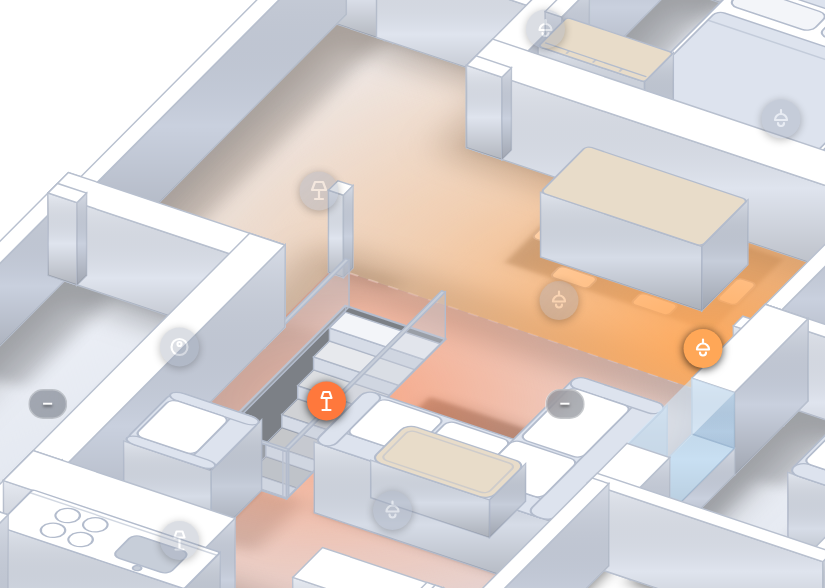
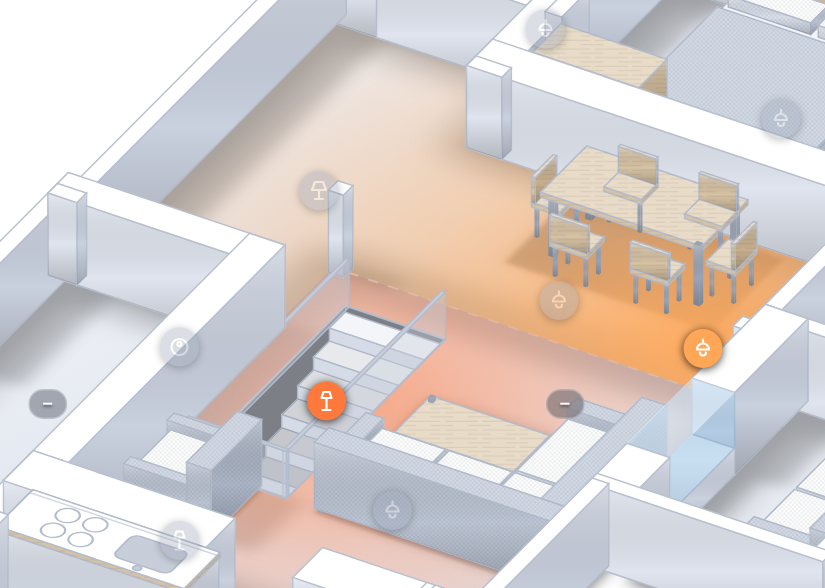
v1.7.0: detailed 3D furniture with textures, furniture kept out of walls and each other
Claude-Session: https://claude.ai/code/session_01Y1uamTQvJ6NkutXHn69Ndq

diff --git a/glow-floorplan-card.js b/glow-floorplan-card.js
@@ -261,9 +261,151 @@ const FLOORS = {
 };
 
 const FURN_PALETTE = {
-  day: { fur: "#ffffff", line: "#b3bccd", accent: "#dde3ee", soft: "#f3f5f9", wood: "#e8dcc9", metal: "#c7ced9", side: "#d6dce7", side2: "#c6cdda", screen: "#2a2f3a", screenEdge: "#565e70" },
-  night: { fur: "#586176", line: "#7d879e", accent: "#4a5368", soft: "#525b70", wood: "#635a4c", metal: "#6d778d", side: "#434b5e", side2: "#3a4253", screen: "#1a1d25", screenEdge: "#3d4456" },
+  day: { fur: "#ffffff", line: "#b3bccd", accent: "#dde3ee", soft: "#f3f5f9", wood: "#e8dcc9", metal: "#c7ced9", side: "#d6dce7", side2: "#c6cdda", screen: "#2a2f3a", screenEdge: "#565e70", woodSide: "#d6c2a4", woodSide2: "#c7b08f", fabric: "#d3dae6", fabricSide: "#bfc7d6", fabricSide2: "#aeb7c8", leg: "#9aa3b3" },
+  night: { fur: "#586176", line: "#7d879e", accent: "#4a5368", soft: "#525b70", wood: "#635a4c", metal: "#6d778d", side: "#434b5e", side2: "#3a4253", screen: "#1a1d25", screenEdge: "#3d4456", woodSide: "#544b3e", woodSide2: "#4a4236", fabric: "#4e566a", fabricSide: "#424a5c", fabricSide2: "#3a4152", leg: "#2f3544" },
 };
+
+/** Colours for a 3D furniture part by material. */
+function partColors(kind, q) {
+  switch (kind) {
+    case "wood": return { top: q.wood, side: q.woodSide, side2: q.woodSide2, edge: q.line, tex: "wood" };
+    case "fabric": return { top: q.fabric, side: q.fabricSide, side2: q.fabricSide2, edge: q.line, tex: "fabric" };
+    case "cushion": return { top: q.fur, side: q.accent, side2: q.fabricSide, edge: q.line, tex: "fabric" };
+    case "soft": return { top: q.soft, side: q.accent, side2: q.fabricSide, edge: q.line };
+    case "leg": return { top: q.leg, side: q.leg, side2: q.leg, edge: "none" };
+    case "screen": return { top: q.screen, side: q.screen, side2: q.screen, edge: q.screenEdge };
+    case "plinth": return { top: q.side2, side: q.side2, side2: q.side2, edge: "none" };
+    default: return { top: q.fur, side: q.side, side2: q.side2, edge: q.line };
+  }
+}
+
+/**
+ * 3D build of a piece as boxes in local coordinates:
+ * [x0, y0, x1, y1, z0, z1, material]. The back is at y = 0, the front at y = h.
+ * Returns null for pieces that stay a simple box.
+ */
+function furniture3dParts(type, w, h, z, q) {
+  const P = [];
+  const add = (x0, y0, x1, y1, z0, z1, m) => x1 - x0 > 0.5 && y1 - y0 > 0.5 && z1 - z0 > 0.2 && P.push([x0, y0, x1, y1, z0, z1, m]);
+  const legs = (x0, y0, x1, y1, z1, t = 4, inset = 3) => {
+    add(x0 + inset, y0 + inset, x0 + inset + t, y0 + inset + t, 0, z1, "leg");
+    add(x1 - inset - t, y0 + inset, x1 - inset, y0 + inset + t, 0, z1, "leg");
+    add(x0 + inset, y1 - inset - t, x0 + inset + t, y1 - inset, 0, z1, "leg");
+    add(x1 - inset - t, y1 - inset - t, x1 - inset, y1 - inset, 0, z1, "leg");
+  };
+  const chair = (x0, y0, x1, y1, backAt) => {
+    // A chair: four legs, a seat and a backrest on the side away from the table.
+    legs(x0, y0, x1, y1, 26, 2.5, 1.5);
+    add(x0, y0, x1, y1, 26, 30, "wood");
+    if (backAt === "top") add(x0, y0, x1, y0 + 3, 30, 52, "wood");
+    if (backAt === "bottom") add(x0, y1 - 3, x1, y1, 30, 52, "wood");
+    if (backAt === "left") add(x0, y0, x0 + 3, y1, 30, 52, "wood");
+    if (backAt === "right") add(x1 - 3, y0, x1, y1, 30, 52, "wood");
+  };
+  switch (type) {
+    case "sofa_2":
+    case "sofa_3":
+    case "armchair": {
+      const seats = type === "sofa_3" ? 3 : type === "sofa_2" ? 2 : 1;
+      const a = Math.min(16, w * 0.14);
+      const b = h * 0.28;
+      add(0, 0, w, b, 4, z, "fabric");
+      add(0, b, a, h, 4, z * 0.68, "fabric");
+      add(w - a, b, w, h, 4, z * 0.68, "fabric");
+      add(a, b, w - a, h, 4, z * 0.4, "fabric");
+      legs(0, 0, w, h, 4, 4, 2);
+      const sw = (w - 2 * a - 3 * (seats - 1)) / seats;
+      for (let i = 0; i < seats; i++) add(a + i * (sw + 3), b + 1, a + i * (sw + 3) + sw, h - 3, z * 0.4, z * 0.56, "cushion");
+      return P;
+    }
+    case "sofa_corner": {
+      const D = Math.min(75, w * 0.45, h * 0.45);
+      const a = 14;
+      const b = D * 0.28;
+      add(0, 0, w, b, 4, z, "fabric");
+      add(0, b, b, h, 4, z, "fabric");
+      add(w - a, b, w, D, 4, z * 0.68, "fabric");
+      add(b, h - a, D, h, 4, z * 0.68, "fabric");
+      add(b, b, w - a, D, 4, z * 0.4, "fabric");
+      add(b, D, D, h - a, 4, z * 0.4, "fabric");
+      legs(0, 0, w, h, 4, 4, 2);
+      const top = (w - a - D - 3) / 2;
+      for (let i = 0; i < 2; i++) add(D + i * (top + 3), b + 1, D + i * (top + 3) + top, D - 2, z * 0.4, z * 0.56, "cushion");
+      add(b + 1, b + 1, D - 2, D - 2, z * 0.4, z * 0.56, "cushion");
+      add(b + 1, D + 1, D - 2, h - a - 2, z * 0.4, z * 0.56, "cushion");
+      return P;
+    }
+    case "single_bed":
+    case "double_bed": {
+      const n = type === "double_bed" ? 2 : 1;
+      add(0, 0, w, h * 0.05, 0, z * 2.1, "wood");
+      add(0, h * 0.05, w, h, 4, z * 0.45, "wood");
+      legs(0, h * 0.05, w, h, 4, 5, 2);
+      add(3, h * 0.05, w - 3, h - 3, z * 0.45, z * 0.95, "soft");
+      const gap = 6;
+      const pw = (w - 12 - gap * (n - 1)) / n;
+      for (let i = 0; i < n; i++) add(6 + i * (pw + gap), h * 0.09, 6 + i * (pw + gap) + pw, h * 0.24, z * 0.95, z * 1.2, "cushion");
+      add(3, h * 0.3, w - 3, h - 3, z * 0.95, z * 1.08, "fabric");
+      return P;
+    }
+    case "dining_table": {
+      const c = 18;
+      add(c, c, w - c, h - c, z - 4, z, "wood");
+      legs(c, c, w - c, h - c, z - 4, 5, 4);
+      const nC = Math.max(1, Math.round((w - 2 * c) / 55));
+      const step = (w - 2 * c) / nC;
+      for (let i = 0; i < nC; i++) {
+        const x = c + step * i + (step - 30) / 2;
+        chair(x, 1, x + 30, c + 6, "top");
+        chair(x, h - c - 6, x + 30, h - 1, "bottom");
+      }
+      if (h - 2 * c >= 30) {
+        chair(1, h / 2 - 15, c + 6, h / 2 + 15, "left");
+        chair(w - c - 6, h / 2 - 15, w - 1, h / 2 + 15, "right");
+      }
+      return P;
+    }
+    case "desk": {
+      const dh = h - 42;
+      add(0, 0, w, dh, z - 3, z, "wood");
+      add(0, 0, 3, dh, 0, z - 3, "wood");
+      add(w - 3, 0, w, dh, 0, z - 3, "wood");
+      add(w * 0.3, dh * 0.12, w * 0.7, dh * 0.18, z + 4, z + 36, "screen");
+      add(w * 0.48, dh * 0.15, w * 0.52, dh * 0.3, z, z + 6, "leg");
+      const cx = w / 2;
+      const cy = dh + 22;
+      add(cx - 2.5, cy - 2.5, cx + 2.5, cy + 2.5, 2, 40, "leg");
+      add(cx - 14, cy - 14, cx + 14, cy + 14, 0, 2, "leg");
+      add(cx - 15, cy - 13, cx + 15, cy + 12, 40, 46, "cushion");
+      add(cx - 15, cy + 12, cx + 15, cy + 18, 44, 82, "fabric");
+      return P;
+    }
+    case "coffee_table":
+      add(0, 0, w, h, z - 4, z, "wood");
+      legs(0, 0, w, h, z - 4, 4, 4);
+      add(5, 5, w - 5, h - 5, 10, 12, "wood");
+      return P;
+    case "dresser": {
+      add(0, 0, w, h - 1, 4, z, "wood");
+      legs(0, 0, w, h - 1, 4, 4, 2);
+      const k = (z - 8) / 3;
+      for (let i = 0; i < 3; i++) add(2, h - 1, w - 2, h, 6 + i * k + 1, 6 + (i + 1) * k - 1, "wood");
+      return P;
+    }
+    case "cabinet":
+      add(0, 0, w, h - 1, 0, z, "box");
+      add(2, h - 1, w / 2 - 1, h, 4, z - 4, "soft");
+      add(w / 2 + 1, h - 1, w - 2, h, 4, z - 4, "soft");
+      return P;
+    case "kitchen_counter":
+      add(0, 0, w, h - 6, 0, 10, "plinth");
+      add(0, 0, w, h - 2, 10, z - 4, "box");
+      add(0, 0, w, h, z - 4, z, "wood");
+      return P;
+    default:
+      return null;
+  }
+}
 
 /** SVG patterns for the floor materials, in plan units (1 unit ≈ 1 cm). */
 function floorPatterns(u, mode) {
@@ -578,6 +720,75 @@ class Renderer {
     this.edit = !!opts.edit;
     this.is3d = !!opts.is3d;
     this.uid = opts.uid || Math.random().toString(36).slice(2, 8);
+    // On the dashboard, nudge furniture out of walls and out of each other.
+    // The editor shows the positions exactly as saved.
+    if (!this.edit && config.avoid_overlap !== false && config.furniture && config.furniture.length)
+      this.c = { ...config, furniture: this.resolveFurniture() };
+  }
+
+  /**
+   * Moves each piece the shortest way out of walls and the pieces before it.
+   * Shapes are the real parts (an L-sofa leaves its corner free), so a coffee
+   * table in front of the sofa stays put. A piece that would have to move
+   * further than 80 units is left where it is.
+   */
+  resolveFurniture() {
+    const q = FURN_PALETTE.day;
+    const t = (this.c.wall_width || 24) * 0.55;
+    const obstacles = [];
+    for (const sg of this.wallSegments()) {
+      if (sg.kind === "gap") continue;
+      const [ax, ay] = sg.a;
+      const [bx, by] = sg.b;
+      const th = (sg.thick || t) / 2;
+      if (Math.abs(ax - bx) < 1) obstacles.push([ax - th, Math.min(ay, by), ax + th, Math.max(ay, by)]);
+      else if (Math.abs(ay - by) < 1) obstacles.push([Math.min(ax, bx), ay - th, Math.max(ax, bx), ay + th]);
+    }
+    const rectsOf = (f, dx, dy) => {
+      const [w, h, spec] = furnitureSize(f);
+      const parts = furniture3dParts(f.type, w, h, spec.z, q);
+      const boxes = parts ? parts.filter((p) => p[5] > 3).map((p) => [p[0], p[1], p[2], p[3]]) : [[0, 0, w, h]];
+      return boxes.map(([x0, y0, x1, y1]) => {
+        const pts = [[x0, y0], [x1, y0], [x1, y1], [x0, y1]].map(([lx, ly]) => furnitureLocalToWorld(f, w, h, lx, ly));
+        const xs = pts.map((p) => p[0] + dx);
+        const ys = pts.map((p) => p[1] + dy);
+        return [Math.min(...xs), Math.min(...ys), Math.max(...xs), Math.max(...ys)];
+      });
+    };
+    const out = [];
+    for (const f0 of this.c.furniture) {
+      const f = { ...f0 };
+      const [w, h] = furnitureSize(f);
+      let dx = 0;
+      let dy = 0;
+      for (let it = 0; it < 16; it++) {
+        const mine = rectsOf(f, dx, dy);
+        let hit = null;
+        for (const r of mine) {
+          for (const o of obstacles) {
+            const ox = Math.min(r[2], o[2]) - Math.max(r[0], o[0]);
+            const oy = Math.min(r[3], o[3]) - Math.max(r[1], o[1]);
+            if (ox > 0.5 && oy > 0.5) {
+              hit = { o, ox, oy };
+              break;
+            }
+          }
+          if (hit) break;
+        }
+        if (!hit) break;
+        const [ocx, ocy] = [(hit.o[0] + hit.o[2]) / 2, (hit.o[1] + hit.o[3]) / 2];
+        const [pcx, pcy] = [f.x + w / 2 + dx, f.y + h / 2 + dy];
+        if (hit.ox < hit.oy) dx += (pcx >= ocx ? 1 : -1) * (hit.ox + 0.5);
+        else dy += (pcy >= ocy ? 1 : -1) * (hit.oy + 0.5);
+      }
+      if (Math.abs(dx) + Math.abs(dy) <= 80) {
+        f.x += dx;
+        f.y += dy;
+      }
+      out.push(f);
+      if (f.type !== "stairs_down") obstacles.push(...rectsOf(f, 0, 0));
+    }
+    return out;
   }
 
   mode() {
@@ -648,6 +859,14 @@ class Renderer {
         <stop offset="1" stop-color="#000" stop-opacity="${this.mode() === "night" ? 0.32 : 0.2}"/>
       </linearGradient>`);
     out.defs.push(floorPatterns(u, this.mode()));
+    {
+      // Small screen-space textures for 3D furniture: woven fabric and wood grain.
+      const n = this.mode() === "night";
+      const ink = n ? "rgba(255,255,255,0.07)" : "rgba(40,50,70,0.09)";
+      const grain = n ? "rgba(255,255,255,0.06)" : "rgba(90,60,30,0.12)";
+      out.defs.push(`<pattern id="tx-${u}-fabric" width="3" height="3" patternUnits="userSpaceOnUse"><rect width="1.5" height="1.5" fill="${ink}"/><rect x="1.5" y="1.5" width="1.5" height="1.5" fill="${ink}"/></pattern>
+        <pattern id="tx-${u}-wood" width="26" height="6" patternUnits="userSpaceOnUse"><path d="M0 1.5 H11 M14 1.5 H26 M4 4.5 H20" stroke="${grain}" stroke-width="0.8"/></pattern>`);
+    }
     out.defs.push(`<linearGradient id="tvl-${u}" x1="0" y1="0" x2="0" y2="1">
         <stop offset="0" stop-color="#fff" stop-opacity="${this.mode() === "night" ? 0.6 : 0.75}"/>
         <stop offset="0.45" stop-color="#eef4ff" stop-opacity="${this.mode() === "night" ? 0.25 : 0.32}"/>
@@ -684,7 +903,7 @@ class Renderer {
         out.tvlight.push(`<g transform="${t}"><polygon points="${w * 0.08},${h} ${w * 0.92},${h} ${w * 1.35},${h + L} ${-w * 0.35},${h + L}" fill="url(#tvl-${u})" filter="url(#cs-${u})"/></g>`);
       }
       if (this.is3d) {
-        if (FURNITURE[f.type] && FURNITURE[f.type].chairs) out.furnitureFloor.push(`<g transform="${t}">${furnitureDrawing(f.type, w, h, q, "floor")}</g>`);
+        // Chairs are built as real 3D parts (furniture3dParts), nothing lies flat.
       } else {
         out.furniture.push(`<g transform="${t}">${furnitureDrawing(f.type, w, h, q)}</g>`);
         const spec = FURNITURE[f.type] || {};
@@ -1003,12 +1222,15 @@ class Renderer {
       const q = [v.proj(x1, y1, z0), v.proj(x2, y2, z0), v.proj(x2, y2, z1), v.proj(x1, y1, z1)];
       const qp = q.map((c) => c.map((n2) => n2.toFixed(1)).join(",")).join(" ");
       faces.push(`<polygon points="${qp}" fill="${lit ? colors.side : colors.side2}" ${opts.sideExtra || ""} stroke="${colors.edge || "none"}" stroke-width="1"/>`);
+      if (colors.tex) faces.push(`<polygon points="${qp}" fill="url(#tx-${this.uid}-${colors.tex})" pointer-events="none"/>`);
       // Height shading: a touch of light at the top edge, darker where the side meets the floor.
       if (this.c.shading !== false && !opts.flat && z1 - z0 > 8) faces.push(`<polygon points="${qp}" fill="url(#sd-${this.uid})" ${opts.sideExtra || ""}/>`);
     }
     if (!opts.noTop) {
       const top = corners.map(([x, y]) => v.proj(x, y, z1));
-      faces.push(`<polygon points="${top.map((c) => c.map((n2) => n2.toFixed(1)).join(",")).join(" ")}" fill="${colors.top}" ${opts.topExtra || ""} stroke="${colors.edge || "none"}" stroke-width="1"/>`);
+      const tp = top.map((c) => c.map((n2) => n2.toFixed(1)).join(",")).join(" ");
+      faces.push(`<polygon points="${tp}" fill="${colors.top}" ${opts.topExtra || ""} stroke="${colors.edge || "none"}" stroke-width="1"/>`);
+      if (colors.tex) faces.push(`<polygon points="${tp}" fill="url(#tx-${this.uid}-${colors.tex})" pointer-events="none"/>`);
     }
     return faces.join("");
   }
@@ -1103,6 +1325,63 @@ class Renderer {
       for (const m of after[pick]) indeg[m]--;
     }
     return out;
+  }
+
+  /**
+   * One piece of furniture built from several boxes (seat, back, legs...).
+   * Boxes whose footprints overlap are stacked, so the lower one is drawn first;
+   * the others are drawn back to front.
+   */
+  partsSvg(f, w, h, parts, q) {
+    const v = this.view3d();
+    const box = parts.map((p) => {
+      const corners = [[p[0], p[1]], [p[2], p[1]], [p[2], p[3]], [p[0], p[3]]].map(([lx, ly]) => furnitureLocalToWorld(f, w, h, lx, ly));
+      const xs = corners.map((c) => c[0]);
+      const ys = corners.map((c) => c[1]);
+      const mid = furnitureLocalToWorld(f, w, h, (p[0] + p[2]) / 2, (p[1] + p[3]) / 2);
+      return { p, corners, bb: [Math.min(...xs), Math.min(...ys), Math.max(...xs), Math.max(...ys)], d: v.depth(mid[0], mid[1]) };
+    });
+    box.forEach((bx) => {
+      const sx = bx.corners.map(([x, y]) => x * v.cos - y * v.sin);
+      bx.sx = [Math.min(...sx), Math.max(...sx)];
+      bx.c = [(bx.bb[0] + bx.bb[2]) / 2, (bx.bb[1] + bx.bb[3]) / 2];
+    });
+    const ovX = (a, b) => Math.min(a.bb[2], b.bb[2]) - Math.max(a.bb[0], b.bb[0]);
+    const ovY = (a, b) => Math.min(a.bb[3], b.bb[3]) - Math.max(a.bb[1], b.bb[1]);
+    // before(a, b): a must be drawn before b.
+    const before = (a, b) => {
+      if (ovX(a, b) > 0.5 && ovY(a, b) > 0.5) {
+        // Stacked (a seat under a table top, a mattress on a frame): the lower one first.
+        if (a.p[5] <= b.p[4] + 0.01) return true;
+        if (b.p[5] <= a.p[4] + 0.01) return false;
+        return a.d < b.d;
+      }
+      // Side by side on screen: they cannot cover each other.
+      if (a.sx[1] <= b.sx[0] + 0.5 || b.sx[1] <= a.sx[0] + 0.5) return false;
+      // Separated on the floor: the one nearer the viewer along the separating axis goes last.
+      if (ovX(a, b) <= 0.5 && Math.abs(v.sin) > 1e-3) return a.c[0] * v.sin < b.c[0] * v.sin;
+      if (ovY(a, b) <= 0.5 && Math.abs(v.cos) > 1e-3) return a.c[1] * v.cos < b.c[1] * v.cos;
+      return a.d < b.d;
+    };
+    const n = box.length;
+    const indeg = new Array(n).fill(0);
+    const nxt = box.map(() => []);
+    for (let i = 0; i < n; i++)
+      for (let j = 0; j < n; j++)
+        if (i !== j && before(box[i], box[j]) && !before(box[j], box[i])) {
+          nxt[i].push(j);
+          indeg[j]++;
+        }
+    const order = [];
+    const ready = box.map((_, i) => i).filter((i) => !indeg[i]);
+    while (ready.length) {
+      ready.sort((a, b) => box[a].d - box[b].d);
+      const i = ready.shift();
+      order.push(i);
+      for (const j of nxt[i]) if (!--indeg[j]) ready.push(j);
+    }
+    for (let i = 0; i < n; i++) if (!order.includes(i)) order.push(i);
+    return order.map((i) => this.prism(box[i].corners, box[i].p[4], box[i].p[5], partColors(box[i].p[6], q))).join("");
   }
 
   /**
@@ -1221,6 +1500,13 @@ class Renderer {
         }
         bands.sort((a, b) => a.d - b.d);
         items.push({ d: v.depth(cx, cy), foot: furnitureCorners(f, w, h), svg: bands.map((b) => b.svg).join("") });
+        return;
+      }
+      const parts = furniture3dParts(f.type, w, h, z, q);
+      if (parts) {
+        // The kitchen worktop keeps its sink and hob drawn on top.
+        const top = f.type === "kitchen_counter" ? `<g transform="${v.matrix(z)}"><g transform="${furnitureTransform(f, w, h)}">${furnitureDrawing(f.type, w, h, q, "top")}</g></g>` : "";
+        items.push({ d: v.depth(cx, cy), foot: furnitureCorners(f, w, h), svg: this.partsSvg(f, w, h, parts, q) + top });
         return;
       }
       let corners = furnitureCorners(f, w, h);

diff --git a/README.md b/README.md
@@ -161,6 +161,12 @@ For `stairs_down` the top step is at the back of the piece (y = 0 before rotatio
 
 Furniture is static: it is drawn like an architect's plan in 2D and as blocks in 3D.
 
+### Furniture in 3D
+
+In 3D the furniture is built from real parts instead of plain boxes: sofas and armchairs get a backrest, armrests, cushions and feet; beds a headboard, mattress, pillows and duvet; tables a top on legs, and the dining table real chairs with backrests; the desk a monitor and an office chair; dressers and cabinets drawer and door fronts. Fabric and wood have a light texture.
+
+On the dashboard, furniture that reaches into a wall or into another piece is moved the shortest way out (at most 80 units), so nothing sticks through walls or other furniture in 2D or 3D. The editor still shows the positions exactly as saved. Turn it off with `avoid_overlap: false`.
+
 ### Depth and shadows
 
 ![3D close-up: soft shadows, darker floor along the walls and stairs going down](https://raw.githubusercontent.com/DanielMikkelsen99/glow-floorplan-card/main/images/depth.png)
